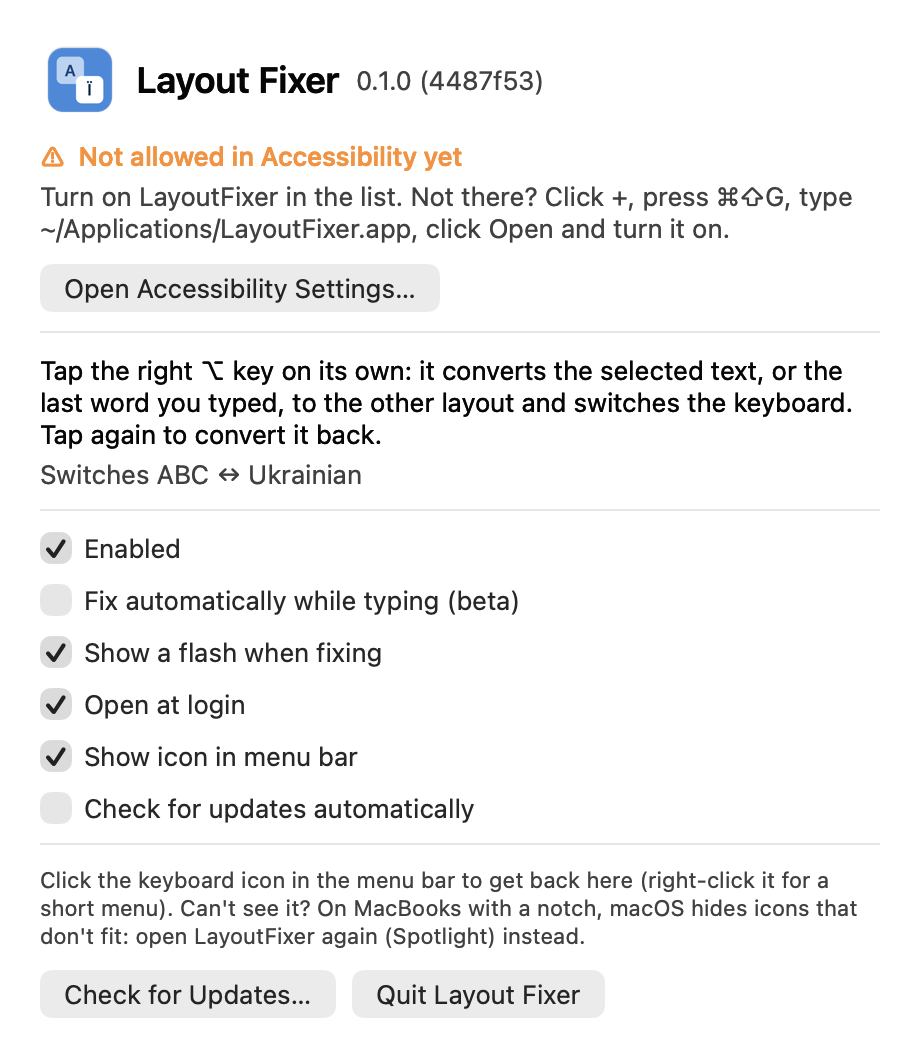
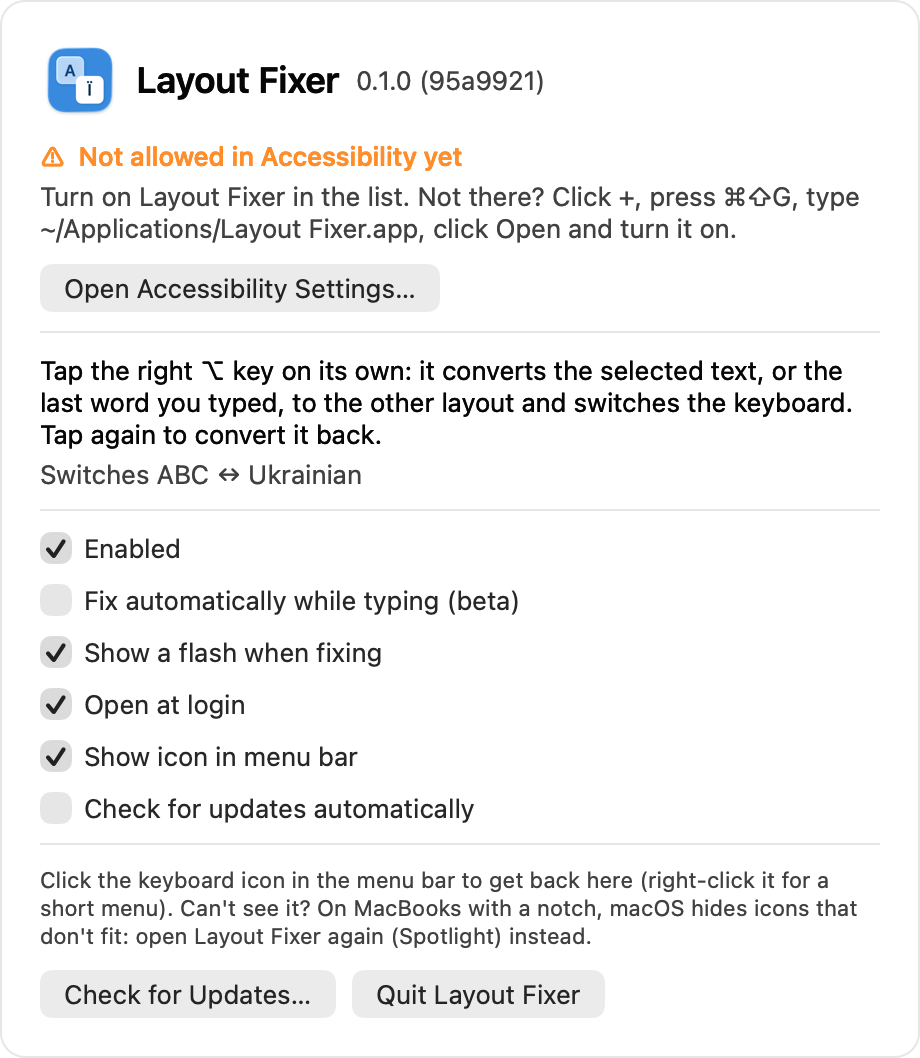
Rename the app to "Layout Fixer"; readable settings screenshot
The bundle is now "Layout Fixer.app", so Finder, Spotlight, the Accessibility
list and the permission dialog say Layout Fixer; the program inside stays
LayoutFixer and the bundle ID is unchanged, so settings carry over. The
installer removes the old LayoutFixer.app and, when an older copy is updating
itself (it reopens under the old name), opens the new one. Open at login is
remembered and turned back on after a move or rename. The README screenshot
gets the window's opaque background, so it reads on GitHub's dark theme.

diff --git a/Sources/SettingsWindow.swift b/Sources/SettingsWindow.swift
@@ -81,9 +81,32 @@ final class SettingsWindow: NSObject, NSWindowDelegate {
         guard let view = window.contentView else { return }
         view.layoutSubtreeIfNeeded()
         view.frame.size = view.fittingSize
-        guard let bitmap = view.bitmapImageRepForCachingDisplay(in: view.bounds) else { return }
-        view.cacheDisplay(in: view.bounds, to: bitmap)
-        try bitmap.representation(using: .png, properties: [:])?.write(to: url)
+        guard let content = view.bitmapImageRepForCachingDisplay(in: view.bounds) else { return }
+        view.cacheDisplay(in: view.bounds, to: content)
+        // The view itself is transparent: put it on the window's own background (with its rounded corners and a
+        // hairline), so the image reads on any page, GitHub's dark theme included.
+        guard let image = NSBitmapImageRep(bitmapDataPlanes: nil, pixelsWide: content.pixelsWide,
+                                           pixelsHigh: content.pixelsHigh, bitsPerSample: 8, samplesPerPixel: 4,
+                                           hasAlpha: true, isPlanar: false, colorSpaceName: .deviceRGB,
+                                           bytesPerRow: 0, bitsPerPixel: 0)
+        else { return }
+        image.size = content.size
+        NSGraphicsContext.saveGraphicsState()
+        NSGraphicsContext.current = NSGraphicsContext(bitmapImageRep: image)
+        let frame = NSRect(origin: .zero, size: content.size).insetBy(dx: 0.5, dy: 0.5)
+        let shape = NSBezierPath(roundedRect: frame, xRadius: 12, yRadius: 12)
+        NSAppearance(named: appearance)?.performAsCurrentDrawingAppearance {
+            NSColor.windowBackgroundColor.setFill()
+            shape.fill()
+            NSColor.separatorColor.setStroke()
+            shape.lineWidth = 1
+            shape.stroke()
+        }
+        // Over the background, not in place of it (a bare draw(in:) copies the transparent pixels too).
+        content.draw(in: NSRect(origin: .zero, size: content.size), from: .zero, operation: .sourceOver,
+                     fraction: 1, respectFlipped: true, hints: nil)
+        NSGraphicsContext.restoreGraphicsState()
+        try image.representation(using: .png, properties: [:])?.write(to: url)
     }
 
     func windowWillClose(_ notification: Notification) {
@@ -105,8 +128,8 @@ final class SettingsWindow: NSObject, NSWindowDelegate {
         heading.alignment = .centerY
 
         accessLabel.font = .systemFont(ofSize: 13, weight: .medium)
-        accessHelp.stringValue = "Turn on LayoutFixer in the list. Not there? Click +, press ⌘⇧G, type "
-            + "~/Applications/LayoutFixer.app, click Open and turn it on."
+        accessHelp.stringValue = "Turn on Layout Fixer in the list. Not there? Click +, press ⌘⇧G, type "
+            + "~/Applications/Layout Fixer.app, click Open and turn it on."
         accessHelp.textColor = .secondaryLabelColor
         accessButton.target = self
         accessButton.action = #selector(openAccessibility)
@@ -125,7 +148,7 @@ final class SettingsWindow: NSObject, NSWindowDelegate {
 
         let notch = NSTextField(wrappingLabelWithString:
             "Click the keyboard icon in the menu bar to get back here (right-click it for a short menu). Can't "
-            + "see it? On MacBooks with a notch, macOS hides icons that don't fit: open LayoutFixer again "
+            + "see it? On MacBooks with a notch, macOS hides icons that don't fit: open Layout Fixer again "
             + "(Spotlight) instead.")
         notch.textColor = .secondaryLabelColor
         notch.font = .systemFont(ofSize: NSFont.smallSystemFontSize)

diff --git a/Sources/main.swift b/Sources/main.swift
@@ -453,6 +453,11 @@ final class AppDelegate: NSObject, NSApplicationDelegate {
         updater.onChange = { [weak self] in self?.changed(); self?.refreshIcon() }
         updater.start()
 
+        // Open at login belongs to the app's place on disk: after a move or rename, turn it back on.
+        if UserDefaults.standard.bool(forKey: "openAtLogin") && SMAppService.mainApp.status != .enabled {
+            try? SMAppService.mainApp.register()
+        }
+
         // First launch, or not allowed yet: show the window, which says what to do (the icon may be hidden).
         let firstLaunch = !UserDefaults.standard.bool(forKey: "launchedBefore")
         UserDefaults.standard.set(true, forKey: "launchedBefore")
@@ -633,7 +638,7 @@ final class AppDelegate: NSObject, NSApplicationDelegate {
         alert.messageText = "Install Layout Fixer \(release.version)?"
         alert.informativeText = (notes.isEmpty ? "" : notes + "\n\n") + "It downloads, builds on this Mac "
             + "(about a minute) and restarts by itself. macOS then asks you to allow it in Accessibility again: "
-            + "remove the old LayoutFixer from that list with – and add it again with +."
+            + "remove the old Layout Fixer from that list with – and add it again with +."
         alert.addButton(withTitle: "Install")
         alert.addButton(withTitle: "Later")
         NSApp.activate(ignoringOtherApps: true)
@@ -650,6 +655,7 @@ final class AppDelegate: NSObject, NSApplicationDelegate {
     }
 
     private func setOpenAtLogin(_ on: Bool) {
+        UserDefaults.standard.set(on, forKey: "openAtLogin")
         do {
             if on { try SMAppService.mainApp.register() } else { try SMAppService.mainApp.unregister() }
         } catch {

diff --git a/README.md b/README.md
@@ -22,12 +22,12 @@ A small menu bar app for macOS 13 or newer, on Apple silicon or Intel. Free and 
    It downloads the latest release, builds it on your Mac (about a minute) and starts it. Building needs Apple's
    free command line tools: if they're missing, a window offers to install them. Click **Install**, wait for it to
    finish, then paste the line again.
-3. **Allow it.** The Layout Fixer window opens, and a dialog says *"LayoutFixer" would like to control this
-   computer using accessibility features*. Click **Open System Settings** and turn on **LayoutFixer**. macOS may
+3. **Allow it.** The Layout Fixer window opens, and a dialog says *"Layout Fixer" would like to control this
+   computer using accessibility features*. Click **Open System Settings** and turn on **Layout Fixer**. macOS may
    ask for your password or Touch ID.
 
-   No dialog, or LayoutFixer isn't in the list? Open System Settings › Privacy & Security › **Accessibility**, click
-   **+**, press ⌘⇧G, type `~/Applications/LayoutFixer.app`, press Return, click **Open** and turn it on.
+   No dialog, or Layout Fixer isn't in the list? Open System Settings › Privacy & Security › **Accessibility**, click
+   **+**, press ⌘⇧G, type `~/Applications/Layout Fixer.app`, press Return, click **Open** and turn it on.
 4. Within a few seconds the window says **✓ Allowed in Accessibility** and the menu bar icon changes from ⚠ to ⌨.
    Done.
 
@@ -49,7 +49,7 @@ now Ukrainian. Tap again and it's back to `ghbdsn`.
 
 ## Settings
 
-Click the ⌨ icon in the menu bar, or open **LayoutFixer** again (Spotlight or `~/Applications`), to get its window.
+Click the ⌨ icon in the menu bar, or open **Layout Fixer** again (Spotlight or `~/Applications`), to get its window.
 Right-click the icon for a short menu: **Enabled**, **Settings…** and **Quit**.
 
 <img src="docs/settings.png" width="460" alt="The Layout Fixer window: Accessibility status, how to use it, the layout pair and the settings">
@@ -64,7 +64,7 @@ In the window:
 - **Show a flash when fixing**: the `UK → EN` badge.
 - **Open at login**.
 - **Show icon in menu bar**: macOS already shows the current layout, so the icon can go; the window is always
-  there when you open LayoutFixer again. While it waits for Accessibility it shows ⚠ even when hidden.
+  there when you open Layout Fixer again. While it waits for Accessibility it shows ⚠ even when hidden.
 - **Check for Updates…** and **Check for updates automatically** (once a day).
 
 ## Layouts
@@ -84,21 +84,22 @@ Click it, read what's new and click
 **Install**: it downloads, builds and restarts by itself in about a minute (the icon shows ⟳ meanwhile).
 
 **After every update, allow it again.** macOS sees each new build as a new app: in Privacy & Security ›
-**Accessibility**, select LayoutFixer, remove it with **–**, then add it again with **+** as in step 3 above.
+**Accessibility**, select Layout Fixer, remove it with **–**, then add it again with **+** as in step 3 above.
+(Updating from 0.1.0, the app was still called LayoutFixer: remove that entry and add **Layout Fixer**.)
 
 You can also update by running the install line again.
 
 ## Troubleshooting
 
 - **I can't see the icon in the menu bar.** On MacBooks with a notch, macOS hides menu bar icons that don't fit
-  next to it. Open LayoutFixer again from Spotlight to get its window, or make room: hold ⌘ and drag icons you
+  next to it. Open Layout Fixer again from Spotlight to get its window, or make room: hold ⌘ and drag icons you
   don't need off the menu bar.
-- **Nothing happens when I tap right ⌥.** Open LayoutFixer again: its window says whether it is allowed in
+- **Nothing happens when I tap right ⌥.** Open Layout Fixer again: its window says whether it is allowed in
   Accessibility (see Install, step 3) and whether it is **Enabled**. Tap the key quickly and on its own: holding it, or pressing another key
   with it, is ⌥ doing its usual job.
 - **It beeps.** Nothing is selected and you haven't typed anything since your last click, so there is nothing to
   convert.
-- **It stopped working after an update.** Allow it again: remove LayoutFixer from the Accessibility list with **–**
+- **It stopped working after an update.** Allow it again: remove Layout Fixer from the Accessibility list with **–**
   and add it back with **+**.
 - **Wrong text in a browser or chat app.** Some apps don't tell macOS what is selected. Layout Fixer then copies the
   selection, converts it and pastes it back (your clipboard is restored after). Tap once and wait half a second
@@ -113,7 +114,7 @@ You can also update by running the install line again.
 
 ## Uninstall
 
-Quit it (right-click the ⌨ icon › **Quit Layout Fixer**), delete `~/Applications/LayoutFixer.app`, and remove LayoutFixer from Privacy & Security ›
+Quit it (right-click the ⌨ icon › **Quit Layout Fixer**), delete `~/Applications/Layout Fixer.app`, and remove Layout Fixer from Privacy & Security ›
 Accessibility with **–**.
 
 ## Privacy
@@ -151,7 +152,7 @@ build has to be allowed again. A local certificate fixes that (once, about a min
 1. Keychain Access › menu **Keychain Access › Certificate Assistant › Create a Certificate…**
 2. Name `LayoutFixer Local Signing`, Identity Type **Self-Signed Root**, Certificate Type **Code Signing** › Create.
 3. In the **login** keychain, double-click the new certificate › **Trust** › Code Signing: **Always Trust**.
-4. `./install.sh` (it prints `signed with LayoutFixer Local Signing`), then allow LayoutFixer one last time.
+4. `./install.sh` (it prints `signed with LayoutFixer Local Signing`), then allow Layout Fixer one last time.
 
 `build.sh` uses the certificate whenever it finds it, and signs ad-hoc otherwise.
 
